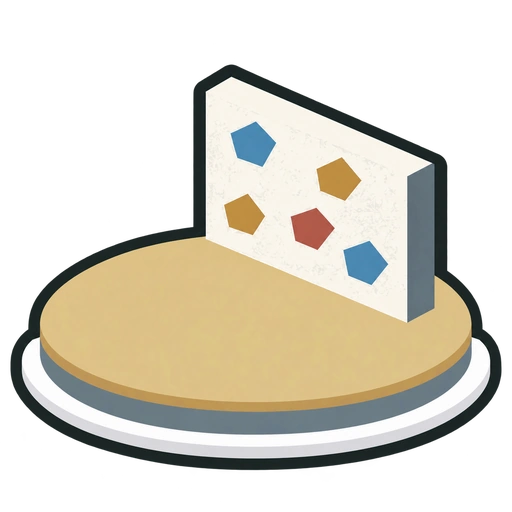
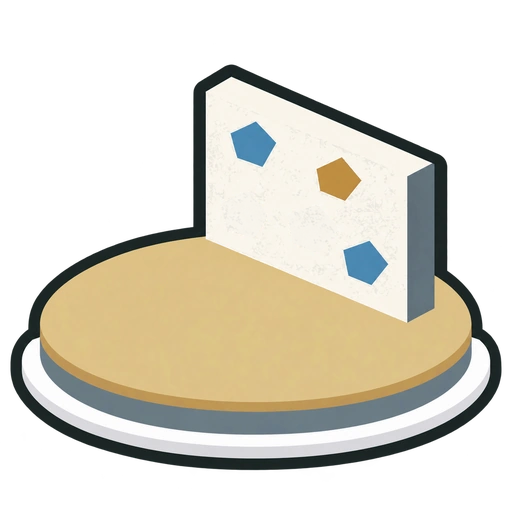
Use three, four and five holds on short, medium and tall map walls

Changed region(s): [[0.5625, 0.4062, 0.6562, 0.5], [0.4375, 0.375, 0.5312, 0.4688]]

diff --git a/js/map-art.js b/js/map-art.js
@@ -1,6 +1,6 @@
 "use strict";
 // Approved raster artwork; mirror the art only, keeping the live stage number upright.
-const MAP_ART_VERSION='white-plate-ellipse-v2';
+const MAP_ART_VERSION='wall-hold-count-v3';
 const MAP_BACKGROUND_VERSION='sage-extended-v2';
 const MAP_ICON_ASSETS={"active-100":{"width":512,"height":512,"renderWidth":66.873,"renderHeight":66.873,"left":-1.437,"top":-11.308},"active-125":{"width":512,"height":512,"renderWidth":66.602,"renderHeight":66.602,"left":-1.301,"top":-15.221},"active-150":{"width":512,"height":614,"renderWidth":68.267,"renderHeight":81.867,"left":-2.133,"top":-30.853},"cleared-100":{"width":512,"height":512,"renderWidth":66.602,"renderHeight":66.602,"left":-1.301,"top":-11.058},"cleared-125":{"width":512,"height":512,"renderWidth":66.467,"renderHeight":66.467,"left":-1.168,"top":-15.088},"cleared-150":{"width":512,"height":614,"renderWidth":67.983,"renderHeight":81.527,"left":-1.992,"top":-30.518},"unplayed-100":{"width":512,"height":512,"renderWidth":66.602,"renderHeight":66.602,"left":-1.301,"top":-11.188},"unplayed-125":{"width":512,"height":512,"renderWidth":66.467,"renderHeight":66.467,"left":-1.168,"top":-15.088},"unplayed-150":{"width":512,"height":614,"renderWidth":67.983,"renderHeight":81.527,"left":-1.992,"top":-30.65}};
 function mapStageVariant(n) {

diff --git a/GAME_SPEC.md b/GAME_SPEC.md
@@ -301,7 +301,7 @@ node tests/stage-setup.cjs
 
 ### マップのステージアイコン
 
-承認済みの水平で左右対称な楕円マットを使用し、下に一回り大きく厚みが半分の白いプレートを敷く。アウトラインは白いプレートを含む外周全体に揃え、マットとプレートの境界には線を入れない。表示時は外周の濃色だけを抽出し、プレイヤーの輪郭と同じ#435c50・不透明度22%に、28%の柔らかい影を添える。ウォール・マット・白いプレートの塗りと数字の黒フチは維持する。高さ3段階・左右2方向・通常（金）／クリア済み（緑）／未挑戦（青灰）の18通りを表示する。高さは実際のコース高が1画面以内なら低、1画面超〜2画面未満なら中、2画面以上なら高を選ぶ。生成処理と共通の純粋な形状計算で各ページ20ステージ分を事前判定し、ホールド生成やルート探索を実行せず、プレイ中の状態や生成乱数にも影響しない。左右反転だけを道の進行方向に合わせ、回転させない。数字は画像に含めず、白文字・黒フチのDOM文字として正立表示する。プレート幅と床位置を基準に配置を揃える。
+承認済みの水平で左右対称な楕円マットを使用し、下に一回り大きく厚みが半分の白いプレートを敷く。アウトラインは白いプレートを含む外周全体に揃え、マットとプレートの境界には線を入れない。表示時は外周の濃色だけを抽出し、プレイヤーの輪郭と同じ#435c50・不透明度22%に、28%の柔らかい影を添える。ウォール・マット・白いプレートの塗りと数字の黒フチは維持する。高さ3段階・左右2方向・通常（金）／クリア済み（緑）／未挑戦（青灰）の18通りを表示する。高さは実際のコース高が1画面以内なら低、1画面超〜2画面未満なら中、2画面以上なら高を選ぶ。生成処理と共通の純粋な形状計算で各ページ20ステージ分を事前判定し、ホールド生成やルート探索を実行せず、プレイ中の状態や生成乱数にも影響しない。左右反転だけを道の進行方向に合わせ、回転させない。数字は画像に含めず、白文字・黒フチのDOM文字として正立表示する。プレート幅と床位置を基準に配置を揃える。ウォール上のホールドは低3個・中4個・高5個とし、それ以外の形状・色・配置は維持する。
 
 ### デバッグ表示の個別切替
 

diff --git a/assets/stage-icons/README.md b/assets/stage-icons/README.md
@@ -8,6 +8,10 @@ transparent WebP artwork (quality 95, full-quality alpha).
   The map selects them by actual generated wall height: up to one screen,
   between one and two screens, and at least two screens, respectively.
   Preview geometry is shared with generation and requires no route solving.
+- The low (`100`), middle (`125`) and tall (`150`) walls show 3, 4 and 5 holds.
+  Only removed-hold regions were patched; all other visible pixels and alpha
+  of the six edited sprites are preserved exactly with lossless WebP exports.
+  Tall sprites are unchanged.
 - CSS horizontal mirroring supplies both facing directions, for six forms and
   eighteen form/state combinations. Facing follows the outgoing trail; artwork
   is never rotated.
@@ -23,7 +27,7 @@ transparent WebP artwork (quality 95, full-quality alpha).
   variants; tall forms can have a portrait canvas.
 
 Created with the built-in image generation tool from the approved template.
-Prompt set: preserve the wall perspective, five holds, horizontal elliptical mat,
+Prompt set: preserve the wall perspective, remaining holds, horizontal elliptical mat,
 white larger base plate, uniform exterior-only charcoal outline and clean
 mat/plate junction; vary only wall height and mat palette (gold / sage /
 gray-blue), with transparent backgrounds and no numbers. Each height's color
@@ -31,4 +35,4 @@ variants use its generated gold form as their reference. The approved template's
 surface shading is retained. `palette.json` records the earlier flat-color
 revision and is not applied to these exports.
 
-Asset URLs include `white-plate-ellipse-v2` to refresh cached artwork.
+Asset URLs include `wall-hold-count-v3` to refresh cached artwork.
